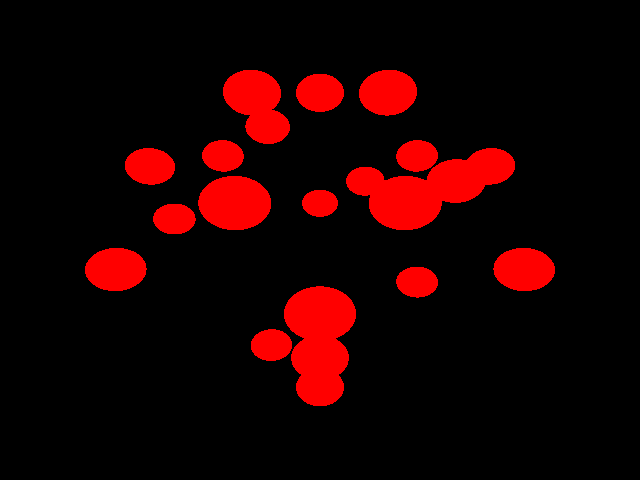
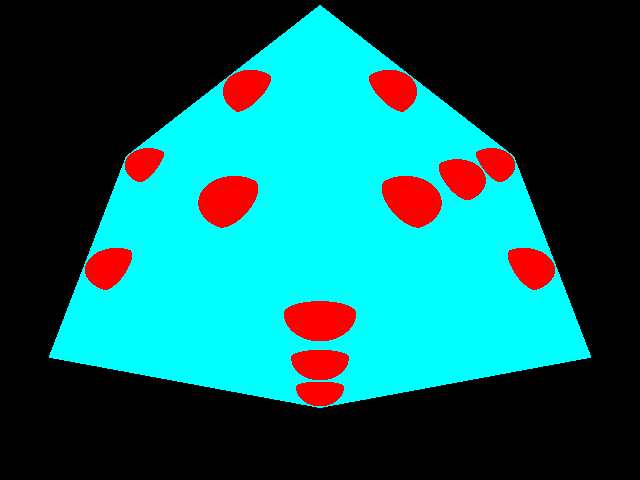
Milestone: renders the dice scene showing spheres and triangles. However, the render is upside down and shrink in the y axis

diff --git a/src/shapes.rs b/src/shapes.rs
@@ -4,7 +4,7 @@ mod test;
 pub mod shapes {
     use crate::{
         camera::camera::Ray,
-        ray_tracer::ray_tracer::{HitInfo, TestHit},
+        ray_tracer::ray_tracer::{Color, HitInfo, TestHit},
     };
     use cgmath::{num_traits::pow, InnerSpace, Matrix, Matrix4, SquareMatrix};
     use cgmath::{Matrix3, One, Zero};
@@ -161,6 +161,7 @@ pub mod shapes {
                 intersection_obj_space.truncate(),
                 normal_transformed,
                 ray.clone(),
+                Color { r: 255, g: 0, b: 0 },
             ));
         }
     }
@@ -212,8 +213,55 @@ pub mod shapes {
             return &self.g_shape;
         }
 
-        fn intersection(&self, _ray: &Ray) -> TestHit {
-            todo!()
+        fn intersection(&self, ray: &Ray) -> TestHit {
+            let a = self.a_transformed.truncate();
+            let b = self.b_transformed.truncate();
+            let c = self.c_transformed.truncate();
+            let t_min: f64 = 0.0;
+            let t_max: f64 = f64::MAX;
+
+            let v_ab = b - a;
+            let v_ac = c - a;
+            let norm = v_ab.cross(v_ac).normalize();
+
+            // Triangle plane intersection
+            let output_t_value = norm.dot(a - ray.o) / norm.dot(ray.d);
+            let q = ray.o + output_t_value * ray.d;
+
+            // Compute barycentric coordinates
+            let v_aq = q - a;
+            let dab_ab = v_ab.dot(v_ab);
+            let dab_ac = v_ab.dot(v_ac);
+            let dac_ac = v_ac.dot(v_ac);
+            let daq_ab = v_aq.dot(v_ab);
+            let daq_ac = v_aq.dot(v_ac);
+
+            // determinant
+            let d = dab_ab * dac_ac - dab_ac * dab_ac;
+
+            if d == 0.0 {
+                return TestHit::NoHit;
+            }
+
+            let beta = (dac_ac * daq_ab - dab_ac * daq_ac) / d;
+            let gamma = (dab_ab * daq_ac - dab_ac * daq_ab) / d;
+
+            if (beta < 0.0 || gamma < 0.0)
+                || (beta > 1.0 || gamma > 1.0)
+                || (beta + gamma > 1.0)
+                || (output_t_value < t_min || output_t_value > t_max)
+            {
+                return TestHit::NoHit;
+            }
+
+            // its a hit
+            TestHit::Hit(HitInfo::from(
+                output_t_value,
+                q,
+                norm,
+                ray.clone(),
+                Color { r: 0, g: 255, b: 255 },
+            ))
         }
     }
 }

diff --git a/src/ray_tracer.rs b/src/ray_tracer.rs
@@ -19,11 +19,18 @@ pub mod ray_tracer {
         p: Vector3<f64>,
         n: Vector3<f64>,
         ray: Ray,
+        color: Color,
     }
 
     impl HitInfo {
-        pub fn from(t_value: f64, p: Vector3<f64>, n: Vector3<f64>, ray: Ray) -> HitInfo {
-            HitInfo { t_value, p, n, ray }
+        pub fn from(
+            t_value: f64,
+            p: Vector3<f64>,
+            n: Vector3<f64>,
+            ray: Ray,
+            color: Color,
+        ) -> HitInfo {
+            HitInfo { t_value, p, n, ray, color }
         }
 
         pub fn new() -> HitInfo {
@@ -32,11 +39,12 @@ pub mod ray_tracer {
                 p: Vector3::zero(),
                 n: Vector3::zero(),
                 ray: Ray::new(Vector3::zero(), Vector3::zero(), 0.0),
+                color: Color { r: 0, g: 0, b: 0 },
             }
         }
     }
 
-    #[derive(Debug, Clone)]
+    #[derive(Debug, Clone, Copy)]
     pub struct Color {
         pub r: i32,
         pub g: i32,
@@ -92,15 +100,11 @@ pub mod ray_tracer {
 
                     let ray = cam.ray_thru_pixel(x_mid, y_mid);
                     let hit = self.intersect(&ray, scene);
-                    let _color = match hit {
-                        TestHit::Hit(_) => {
-                            // println!["Hit with ray: {:?}", ray];
-                            Color { r: 255, g: 0, b: 0 }
-                        },
+
+                    image.image[j as usize][i as usize] = match hit {
+                        TestHit::Hit(info) => info.color,
                         TestHit::NoHit => Color { r: 0, g: 0, b: 0 },
                     };
-
-                    image.image[j as usize][i as usize] = _color;
                 }
             }
 
